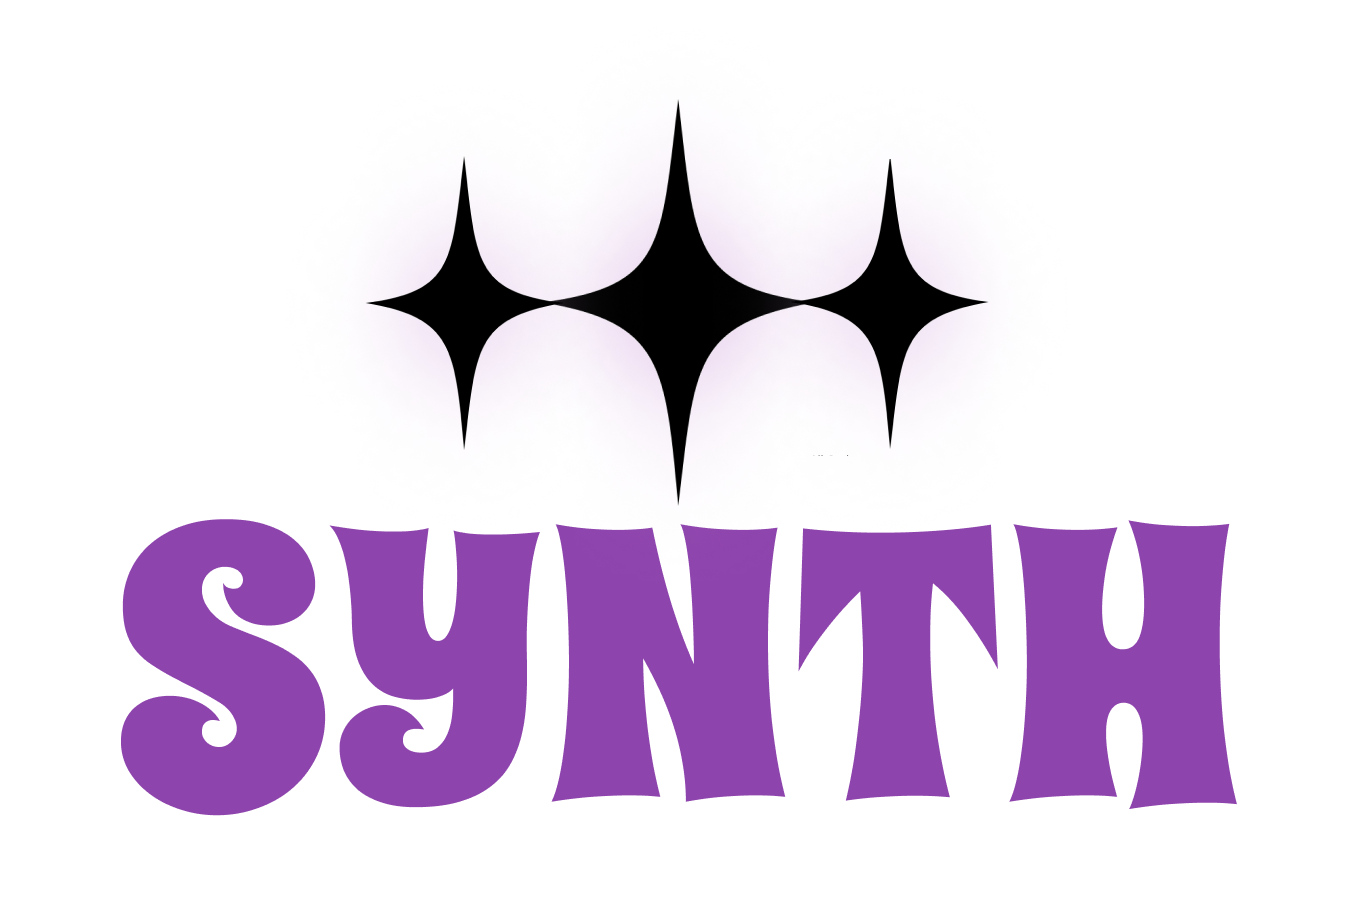
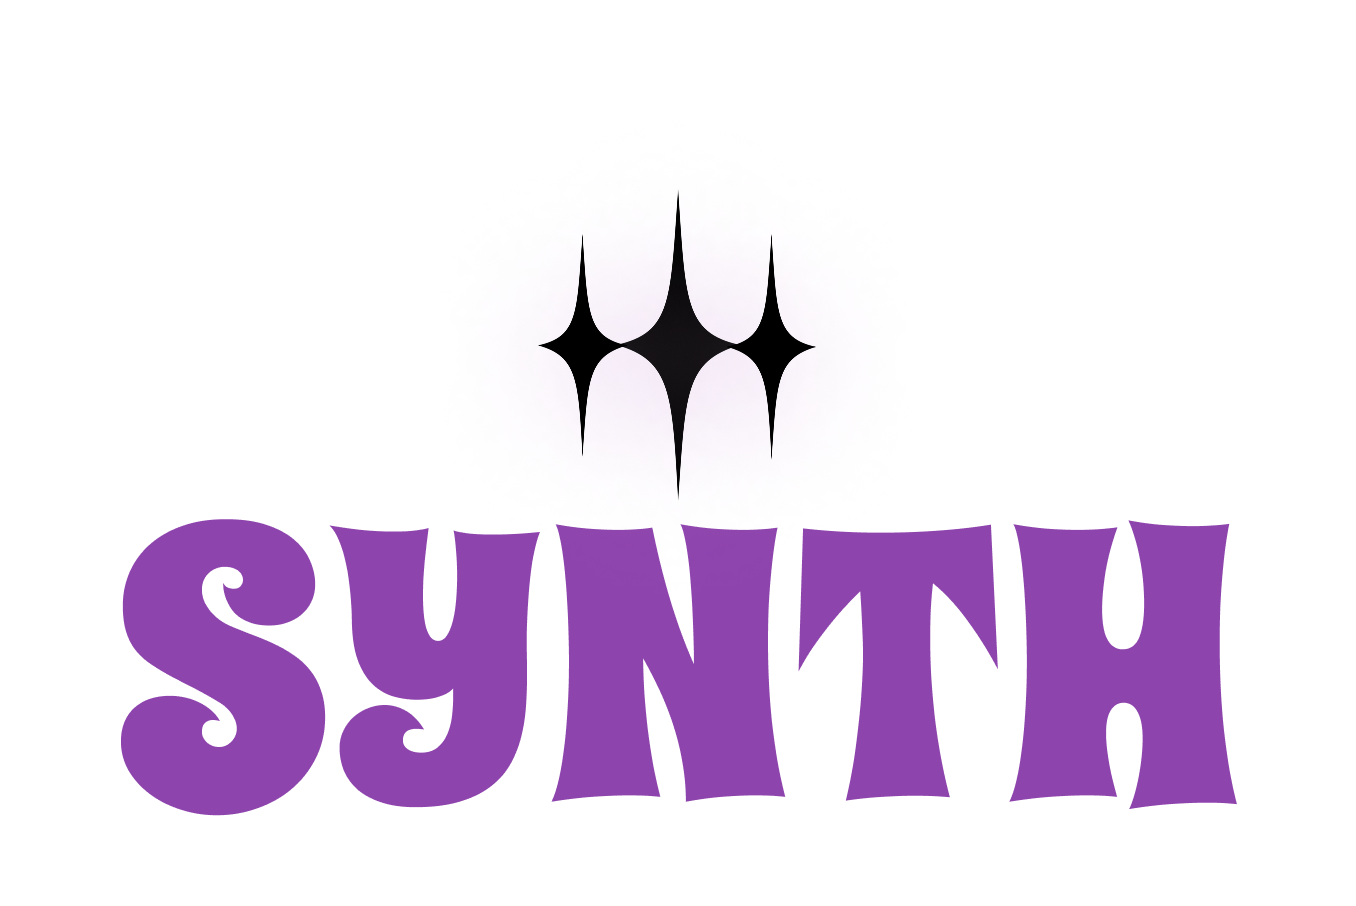
format for different screens

Changed region(s): [[0.2788, 0.1236, 0.7124, 0.4945], [0.4646, 0.4327, 0.5265, 0.5254]]

diff --git a/app/index.js b/app/index.js
@@ -72,22 +72,26 @@ export default function App() {
   // Conditional rendering
   let contentDisplayed = (
     <View style={styles.container} onLayout={onLayoutRootView}>
-      <View style={{ flex: 1, justifyContent: "center", alignItems: "center"}}>
-        <Image source={require("../assets/newTitle.png")}></Image>
-      </View>
-
       {isAuthenticating ? (
         <View style={styles.loadingContainer}>
           <ActivityIndicator size="large" color="#C6E1B8" />
           <Text style={styles.loadingText}>Connecting to Spotify...</Text>
         </View>
       ) : (
-        <View style={{ justifyContent: "center", alignItems: "center" }}>
+        <View style={styles.centerContent}>
+          <View style={styles.logoContainer}>
+            <Image 
+              source={require("../assets/newTitle.png")} 
+              style={styles.responsiveLogo}
+              resizeMode="contain"
+            />
+          </View>
+
           <SpotifyConnectButton
             onPress={handleSpotifyAuth}
             disabled={isAuthenticating}
             loading={isAuthenticating}
-            style={{ width: windowWidth * 0.8, marginBottom: 20 }}
+            style={{ width: windowWidth * 0.8 }}
           />
         </View>
       )}
@@ -119,7 +123,40 @@ const styles = StyleSheet.create({
     flex: 1,
     backgroundColor: "#1E1E1E",
     alignItems: "center",
-    justifyContent: "space-around",
+    justifyContent: "center",
+  },
+  logoContainer: {
+    alignItems: "center",
+    justifyContent: "center",
+    paddingHorizontal: 20,
+    marginBottom: 40, // Space between logo and button
+  },
+  responsiveLogo: {
+    // For wide screens (desktop/tablet), limit max width but maintain responsiveness
+    width: windowWidth > 768 
+      ? Math.min(windowWidth * 0.6, 500)  // Desktop: 60% width or max 500px
+      : windowWidth * 0.85,                // Mobile: 85% width
+    
+    // Height constraints for different screen sizes
+    height: windowWidth > 768 
+      ? Math.min(windowHeight * 0.25, 200)  // Desktop: 25% height or max 200px
+      : Math.min(windowHeight * 0.18, 150), // Mobile: 18% height or max 150px
+    
+    // Additional constraints for very wide screens
+    maxWidth: 600,
+    maxHeight: 250,
+    
+    // Special handling for very small screens
+    ...(windowWidth < 350 && {
+      width: windowWidth * 0.9,
+      height: windowHeight * 0.15,
+    }),
+    
+    // Ensure proper scaling on very wide screens (ultra-wide monitors)
+    ...(windowWidth > 1200 && {
+      width: Math.min(windowWidth * 0.4, 600),
+      height: Math.min(windowHeight * 0.3, 250),
+    }),
   },
   loadingContainer: {
     alignItems: "center",
@@ -139,5 +176,9 @@ const styles = StyleSheet.create({
   errorText: {
     color: "#FF6B6B",
     textAlign: "center",
+  },
+  centerContent: {
+    alignItems: "center",
+    justifyContent: "center",
   },
 });

diff --git a/app/home.js b/app/home.js
@@ -230,7 +230,9 @@ export default function home() {
             <Ionicons name="menu" size={28} color="white" />
           </TouchableOpacity>
 
-          <Image source={require("../assets/SYNTH.png")} style={styles.logo} />
+          <View style={styles.headerLogoContainer}>
+            <Image source={require("../assets/SYNTH.png")} style={styles.logo} />
+          </View>
 
           <View style={styles.placeholder} />
         </View>
@@ -413,6 +415,15 @@ const styles = StyleSheet.create({
     justifyContent: 'center',
     alignItems: 'center',
   },
+  headerLogoContainer: {
+    position: 'absolute',
+    left: 0,
+    right: 0,
+    bottom: 10,
+    alignItems: 'center',
+    justifyContent: 'center',
+    paddingHorizontal: 80, // Give space for menu button and potential right content
+  },
   logoText: {
     color: "#FFC857", // Golden yellow color
     fontSize: 28,
@@ -420,12 +431,12 @@ const styles = StyleSheet.create({
     letterSpacing: 2,
   },
   logo: {
-    height: 80,
-    width: 200,
+    height: Math.min(windowHeight * 0.06, 60), // Responsive height
+    width: Math.min(windowWidth * 0.4, 200),   // Responsive width
     resizeMode: "contain",
   },
   placeholder: {
-    height: window.innerHeight * 0.05,
+    width: 40,
   },
   spotifyStatus: {
     margin: 20,
@@ -468,12 +479,12 @@ const styles = StyleSheet.create({
     fontSize: 16,
   },
   spotifyDisconnectButton: {
-    backgroundColor: "#333",
+    backgroundColor: "#444",
     padding: 10,
     borderRadius: 25,
     paddingHorizontal: 20,
     borderWidth: 1,
-    borderColor: "#666",
+    borderColor: "#444",
     shadowColor: "#000000",
     shadowOffset: { width: 0, height: 2 },
     shadowOpacity: 0.2,
